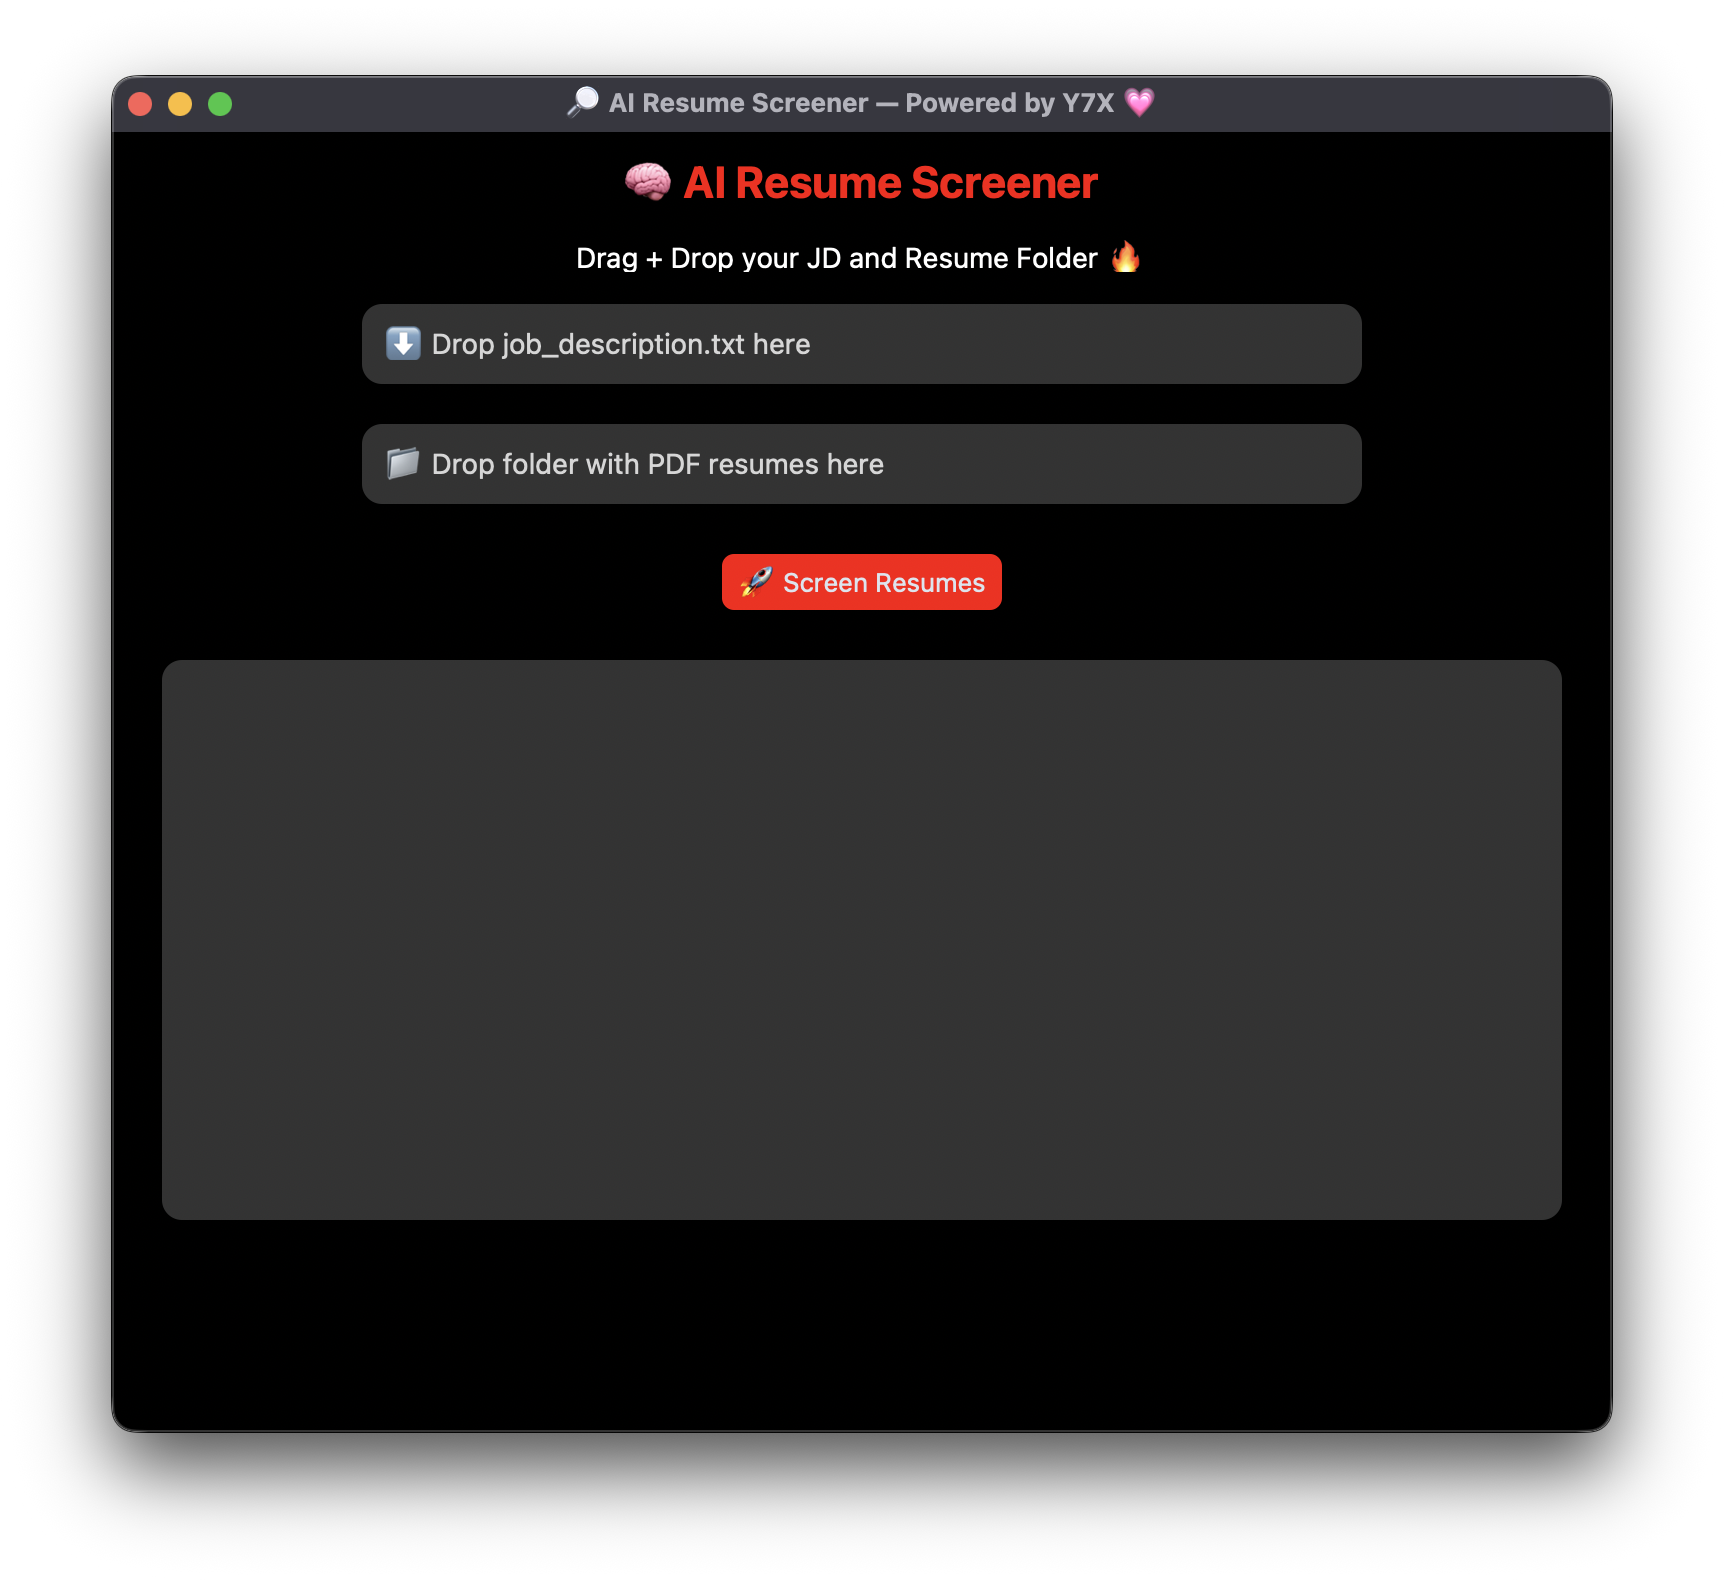
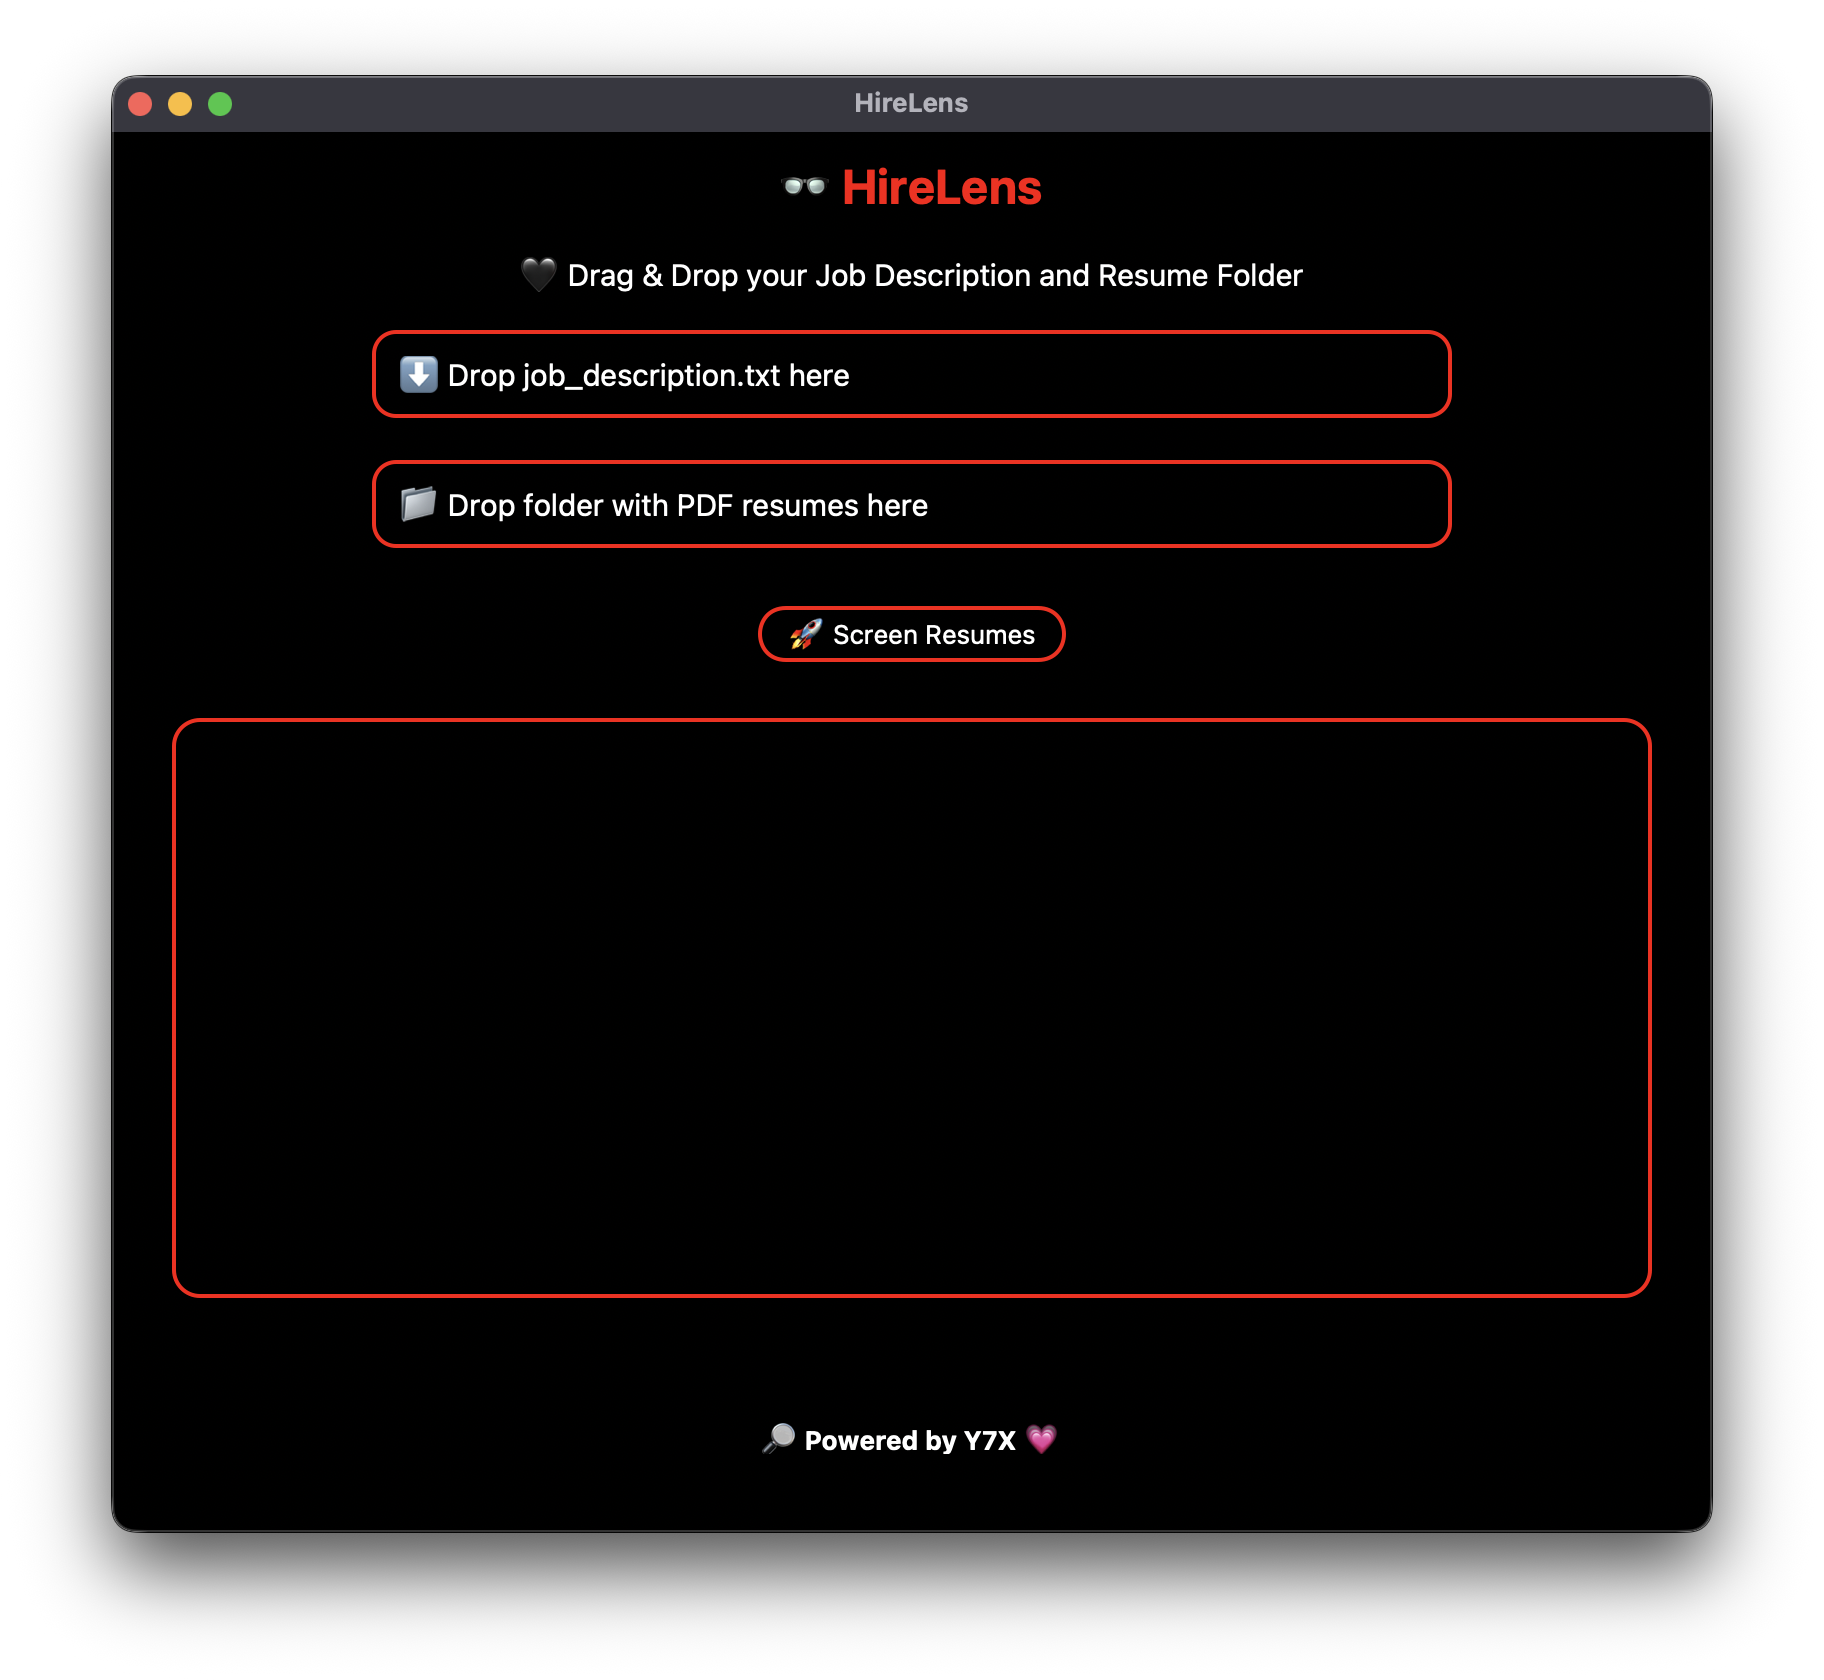
🧠 HireLens: Smart screening meets slick design

diff --git a/HireLens.py b/HireLens.py
@@ -2,7 +2,7 @@ import customtkinter as ctk
 import os
 import PyPDF2
 from tkinterdnd2 import DND_FILES, TkinterDnD
-from tkinter import filedialog, messagebox
+from tkinter import messagebox
 from sklearn.feature_extraction.text import TfidfVectorizer
 from sklearn.metrics.pairwise import cosine_similarity
 import csv
@@ -10,12 +10,12 @@ import csv
 ctk.set_appearance_mode("dark")
 ctk.set_default_color_theme("dark-blue")
 
-class ResumeScreenerApp(TkinterDnD.Tk):
+class HireLensApp(TkinterDnD.Tk):
     def __init__(self):
         super().__init__()
 
-        self.title("🔎 AI Resume Screener — Powered by Y7X 💗")
-        self.geometry("750x650")
+        self.title("HireLens")
+        self.geometry("800x700")
         self.configure(bg="#000000")
 
         self.jd_path = ""
@@ -24,31 +24,34 @@ class ResumeScreenerApp(TkinterDnD.Tk):
         self.init_ui()
 
     def init_ui(self):
-        font_title = ctk.CTkFont(size=22, weight="bold")
-        font_text = ctk.CTkFont(size=14)
+        font_title = ctk.CTkFont(size=24, weight="bold")
+        font_text = ctk.CTkFont(size=15)
 
-        ctk.CTkLabel(self, text="🧠 AI Resume Screener", font=font_title, text_color="red", bg_color="#000000").pack(pady=10)
-        ctk.CTkLabel(self, text="Drag + Drop your JD and Resume Folder 🔥", font=font_text, text_color="white", bg_color="#000000").pack()
+        ctk.CTkLabel(self, text="👓 HireLens", font=font_title, text_color="red", bg_color="#000000").pack(pady=12)
+        ctk.CTkLabel(self, text="🖤 Drag & Drop your Job Description and Resume Folder", font=font_text, text_color="white", bg_color="#000000").pack(pady=4)
 
-        self.drop_jd = ctk.CTkTextbox(self, width=500, height=40, font=font_text, corner_radius=10)
+        self.drop_jd = ctk.CTkTextbox(self, width=540, height=45, font=font_text, corner_radius=12, fg_color="#000000", text_color="white", border_width=2, border_color="red")
         self.drop_jd.pack(pady=10)
         self.drop_jd.insert("1.0", "⬇ Drop job_description.txt here")
         self.drop_jd.drop_target_register(DND_FILES)
         self.drop_jd.dnd_bind("<<Drop>>", self.handle_jd_drop)
 
-        self.drop_resumes = ctk.CTkTextbox(self, width=500, height=40, font=font_text, corner_radius=10)
+        self.drop_resumes = ctk.CTkTextbox(self, width=540, height=45, font=font_text, corner_radius=12, fg_color="#000000", text_color="white", border_width=2, border_color="red")
         self.drop_resumes.pack(pady=10)
         self.drop_resumes.insert("1.0", "📁 Drop folder with PDF resumes here")
         self.drop_resumes.drop_target_register(DND_FILES)
         self.drop_resumes.dnd_bind("<<Drop>>", self.handle_resume_drop)
 
-        ctk.CTkButton(self, text="🚀 Screen Resumes", command=self.screen_resumes, fg_color="red", hover_color="#cc0000").pack(pady=15)
+        ctk.CTkButton(self, text="🚀 Screen Resumes", command=self.screen_resumes, fg_color="#000000", hover_color="#111111", text_color="white", corner_radius=20, border_width=2, border_color="red").pack(pady=18)
 
-        self.output_textbox = ctk.CTkTextbox(self, width=700, height=280, state="disabled", corner_radius=10)
+        self.output_textbox = ctk.CTkTextbox(self, width=740, height=290, state="disabled", corner_radius=14, fg_color="#000000", text_color="white", border_width=2, border_color="red")
         self.output_textbox.pack(pady=10)
 
-        self.status_label = ctk.CTkLabel(self, text="", font=ctk.CTkFont(size=12), text_color="white")
-        self.status_label.pack(pady=5)
+        self.status_label = ctk.CTkLabel(self, text="", font=ctk.CTkFont(size=13), text_color="white", bg_color="#000000")
+        self.status_label.pack(pady=6)
+
+        # 🔎 Powered by Y7X 💗 branding at the bottom
+        ctk.CTkLabel(self, text="🔎 Powered by Y7X 💗", font=ctk.CTkFont(size=13, weight="bold"), text_color="white", bg_color="#000000").pack(pady=6)
 
     def handle_jd_drop(self, event):
         path = event.data.strip("{}")
@@ -59,7 +62,7 @@ class ResumeScreenerApp(TkinterDnD.Tk):
             self.drop_jd.insert("1.0", f"✅ Loaded: {os.path.basename(path)}")
             self.drop_jd.configure(state="disabled")
         else:
-            messagebox.showerror("Error", "Please drop a valid .txt file.")
+            messagebox.showerror("❌ Error", "Please drop a valid .txt file.")
 
     def handle_resume_drop(self, event):
         path = event.data.strip("{}")
@@ -70,7 +73,7 @@ class ResumeScreenerApp(TkinterDnD.Tk):
             self.drop_resumes.insert("1.0", f"✅ Folder: {os.path.basename(path)}")
             self.drop_resumes.configure(state="disabled")
         else:
-            messagebox.showerror("Error", "Please drop a valid folder.")
+            messagebox.showerror("❌ Error", "Please drop a valid folder.")
 
     def extract_text_from_pdf(self, path):
         try:
@@ -96,7 +99,7 @@ class ResumeScreenerApp(TkinterDnD.Tk):
 
     def screen_resumes(self):
         if not os.path.exists(self.jd_path) or not os.path.exists(self.resume_folder):
-            messagebox.showerror("Error", "Missing job description or resume folder.")
+            messagebox.showerror("❌ Error", "Missing job description or resume folder.")
             return
 
         with open(self.jd_path, "r") as f:
@@ -126,8 +129,8 @@ class ResumeScreenerApp(TkinterDnD.Tk):
             writer.writerow(["Resume", "Score", "Matched Keywords"])
             writer.writerows(results)
 
-        self.status_label.configure(text="✅ Screening done. CSV saved!")
+        self.status_label.configure(text="✅ Screening complete. Results saved as CSV!")
 
 if __name__ == "__main__":
-    app = ResumeScreenerApp()
+    app = HireLensApp()
     app.mainloop()

diff --git a/README.md b/README.md
@@ -1,18 +1,19 @@
-# 💼 AI Resume Screener — AMOLED Mode 🔥
+<div align="center">
+
+# 💼 HireLens
+**🧠 HireLens: Smart screening meets slick design**
 
 An offline, amoled AI resume screener that ranks PDF resumes based on how well they match a job description.  
-Powered by smart NLP scoring and drag & drop magic — built with 💗 by [Y7X](https://github.com/Y7X-bit).
+Powered by smart NLP scoring and drag & drop magic.
+Branded with 💗 by [Y7X-bit](https://github.com/Y7X-bit)
+
+<img src="assets/1.png" alt="AI Resume Screener UI" width="750">
+
+</div>
 
 ---
-## 📸 App Preview
 
-<p align="center">
-  <img src="assets/1.png" alt="AI Resume Screener UI" width="750">
-</p>
-
----
-
-## 🖤 Key Highlights
+## 🌟 Features at a Glance
 
 🖥 **Total AMOLED UI** – zero gray, full black  
 📄 **Drag & Drop** support for job description and resume folder  
@@ -22,8 +23,12 @@ Powered by smart NLP scoring and drag & drop magic — built with 💗 by [Y7X](
 
 ---
 
-## ⚙ How To Use
+## 🖥 Installation
+
+> Python 3.9 or later required
 
 ```bash
-pip install customtkinter tkinterdnd2 PyPDF2 scikit-learn
-python3 main.py
+git clone https://github.com/Y7X-bit/HireLens.git
+cd HireLens
+pip install -r requirements.txt
+python HireLens.py
